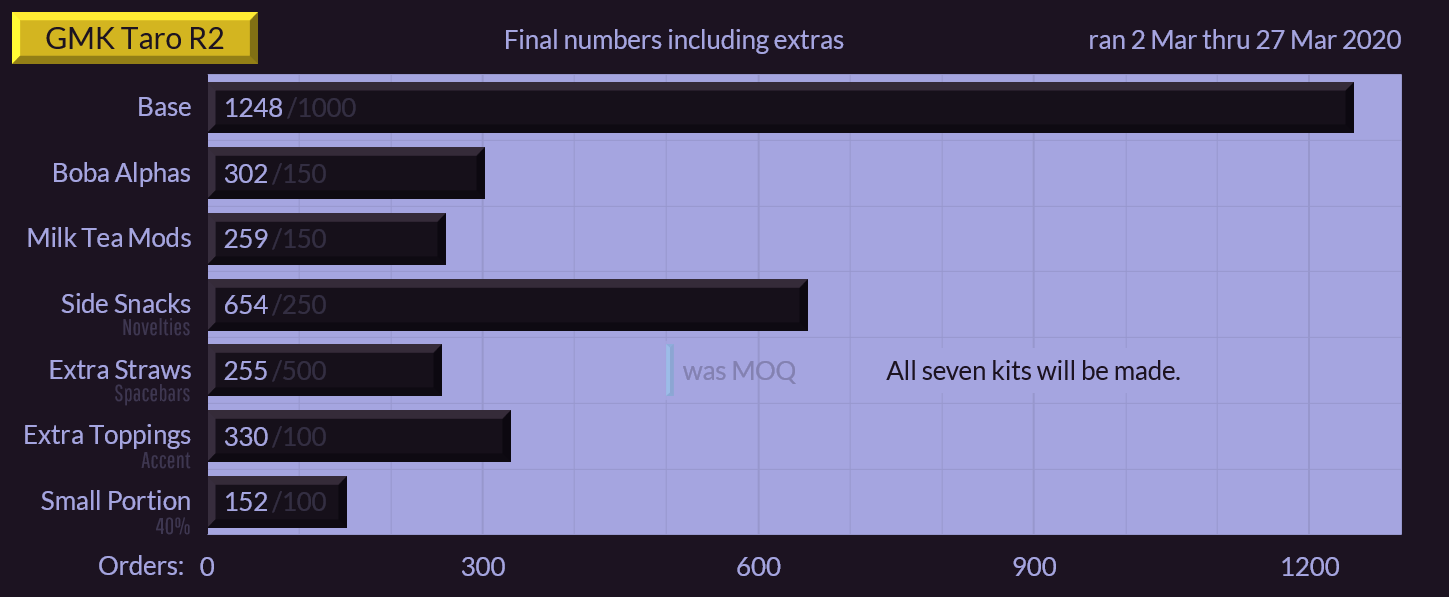
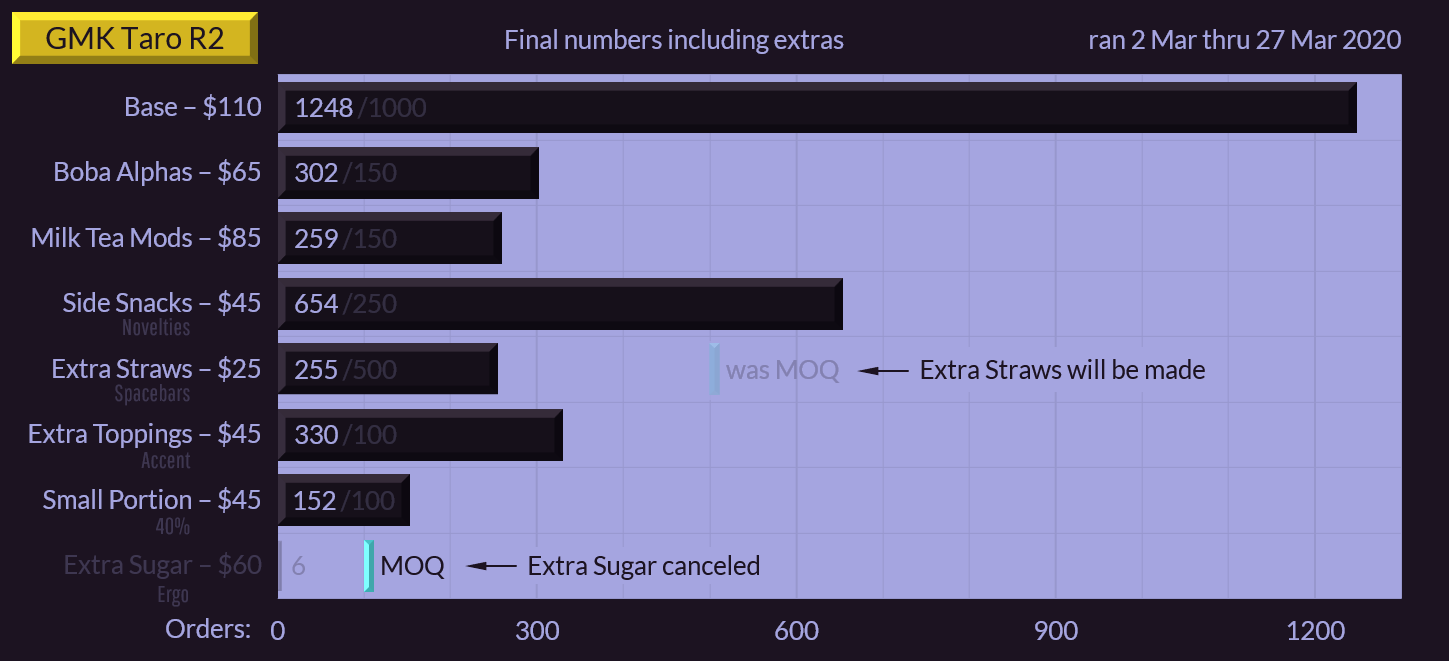
There are 11 files have been modified at 2020-12-06 19:29:05 . 	-rw-rw-r--. 1 jzou jzou 199886 Dec  6 19:24 assets/images/gmk-keycaps/redline/color.png 	-rw-rw-r--. 1 jzou jzou 207436 Dec  6 19:24 assets/images/gmk-keycaps/redline/kits_pics/rama-push-to-start.png 	-rw-rw-r--. 1 jzou jzou 306669 Dec 

diff --git a/docs/gmk-keycaps/Red-Line.md b/docs/gmk-keycaps/Red-Line.md
@@ -21,62 +21,64 @@ NOTE: USD to CNY exchange rate is 6.70
 
 | Name          | Price(GH)    |  Price(CNY) | Quantity |
 | ------------- | ------------ |  ---------- | -------- |
-|[Standard](#standard)|104.99|703.43|Unknown|
-|[Dashboard](#dashboard)|39.99|267.93|Unknown|
-|[Warning](#warning)|29.99|200.93|Unknown|
-|[Addition](#addition)|39.99|267.93|Unknown|
-|[Alternate](#alternate)|24.99|167.43|Unknown|
-|[Aesthetic](#aesthetic)|24.99|167.43|Unknown|
-|[Modern](#modern)|39.99|267.93|Unknown|
-|[Obscure](#obscure)|44.99|301.43|Unknown|
-|[RAMA Push-to-Start](#rama-push-to-start)|40.00|268.00|Unknown|
-|[RAMA Thread](#rama-thread)|40.00|268.00|Unknown|
-|[RAMA Warning](#rama-warning)|38.00|254.60|Unknown|
+|[Standard](#standard)|104.99|703.43|3445|
+|[Dashboard](#dashboard)|39.99|267.93|1805|
+|[Warning](#warning)|29.99|200.93|265|
+|[Addition](#addition)|39.99|267.93|316|
+|[Alternate](#alternate)|24.99|167.43|1129|
+|[Aesthetic](#aesthetic)|24.99|167.43|854|
+|[Modern](#modern)|39.99|267.93|207|
+|[Obscure](#obscure)|44.99|301.43|186|
+|[RAMA Push-to-Start](#rama-push-to-start)|40.00|268.00|938|
+|[RAMA Thread](#rama-thread)|40.00|268.00|263|
+|[RAMA Warning](#rama-warning)|38.00|254.60|555|
 
+
+<img src="{{ 'assets/images/gmk-keycaps/redline/order.png' | relative_url }}" alt="order" class="image featured">
 
 ## Kits  
 ### Standard  
-**Price(GH):** 104.99    **Price(CNY):** 703.43    **Quantity:** Unknown  
+**Price(GH):** 104.99    **Price(CNY):** 703.43    **Quantity:** 3445  
 <img src="{{ 'assets/images/gmk-keycaps/redline/kits_pics/standard.png' | relative_url }}" alt="standard" class="image featured">
 
 ### Dashboard  
-**Price(GH):** 39.99    **Price(CNY):** 267.93    **Quantity:** Unknown  
+**Price(GH):** 39.99    **Price(CNY):** 267.93    **Quantity:** 1805  
 <img src="{{ 'assets/images/gmk-keycaps/redline/kits_pics/dashboard.png' | relative_url }}" alt="dashboard" class="image featured">
 
 ### Warning  
-**Price(GH):** 29.99    **Price(CNY):** 200.93    **Quantity:** Unknown  
+**Price(GH):** 29.99    **Price(CNY):** 200.93    **Quantity:** 265  
 <img src="{{ 'assets/images/gmk-keycaps/redline/kits_pics/warning.png' | relative_url }}" alt="warning" class="image featured">
 
 ### Addition  
-**Price(GH):** 39.99    **Price(CNY):** 267.93    **Quantity:** Unknown  
+**Price(GH):** 39.99    **Price(CNY):** 267.93    **Quantity:** 316  
 <img src="{{ 'assets/images/gmk-keycaps/redline/kits_pics/addition.png' | relative_url }}" alt="addition" class="image featured">
 
 ### Alternate  
-**Price(GH):** 24.99    **Price(CNY):** 167.43    **Quantity:** Unknown  
+**Price(GH):** 24.99    **Price(CNY):** 167.43    **Quantity:** 1129  
 <img src="{{ 'assets/images/gmk-keycaps/redline/kits_pics/alternate.png' | relative_url }}" alt="alternate" class="image featured">
 
 ### Aesthetic  
-**Price(GH):** 24.99    **Price(CNY):** 167.43    **Quantity:** Unknown  
+**Price(GH):** 24.99    **Price(CNY):** 167.43    **Quantity:** 854  
 <img src="{{ 'assets/images/gmk-keycaps/redline/kits_pics/aesthetic.png' | relative_url }}" alt="aesthetic" class="image featured">
 
 ### Modern  
-**Price(GH):** 39.99    **Price(CNY):** 267.93    **Quantity:** Unknown  
+**Price(GH):** 39.99    **Price(CNY):** 267.93    **Quantity:** 207  
 <img src="{{ 'assets/images/gmk-keycaps/redline/kits_pics/modern.png' | relative_url }}" alt="modern" class="image featured">
 
 ### Obscure  
-**Price(GH):** 44.99    **Price(CNY):** 301.43    **Quantity:** Unknown  
+**Price(GH):** 44.99    **Price(CNY):** 301.43    **Quantity:** 186  
 <img src="{{ 'assets/images/gmk-keycaps/redline/kits_pics/obscure.png' | relative_url }}" alt="obscure" class="image featured">
 
 ### RAMA Push-to-Start  
-**Price(GH):** 40.00    **Price(CNY):** 268.00    **Quantity:** Unknown  
+**Price(GH):** 40.00    **Price(CNY):** 268.00    **Quantity:** 938  
 <img src="{{ 'assets/images/gmk-keycaps/redline/kits_pics/rama-push-to-start.png' | relative_url }}" alt="rama-push-to-start" class="image featured">
 
 ### RAMA Thread  
-**Price(GH):** 40.00    **Price(CNY):** 268.00    **Quantity:** Unknown  
+**Price(GH):** 40.00    **Price(CNY):** 268.00    **Quantity:** 263  
 <img src="{{ 'assets/images/gmk-keycaps/redline/kits_pics/rama-thread.png' | relative_url }}" alt="rama-thread" class="image featured">
 
 ### RAMA Warning  
-**Price(GH):** 38.00    **Price(CNY):** 254.60    **Quantity:** Unknown  
+**Price(GH):** 38.00    **Price(CNY):** 254.60    **Quantity:** 555  
 <img src="{{ 'assets/images/gmk-keycaps/redline/kits_pics/rama-warning.png' | relative_url }}" alt="rama-warning" class="image featured">
 
 

diff --git a/docs/gmk-keycaps/Taegeukgi.md b/docs/gmk-keycaps/Taegeukgi.md
@@ -21,32 +21,34 @@ NOTE: USD to CNY exchange rate is 6.71
 
 | Name          | Price(GH)    |  Price(CNY) | Quantity |
 | ------------- | ------------ |  ---------- | -------- |
-|[Base](#base)|142.99|959.46|Unknown|
-|[Hangul Mono](#hangul-mono)|70.00|469.70|Unknown|
-|[Novelties](#novelties)|45.00|301.95|Unknown|
-|[40s Spacebars](#40s-spacebars)|45.00|301.95|Unknown|
-|[Black Day](#black-day)|15.00|100.65|Unknown|
+|[Base](#base)|142.99|959.46|503|
+|[Hangul Mono](#hangul-mono)|70.00|469.70|123|
+|[Novelties](#novelties)|45.00|301.95|252|
+|[40s Spacebars](#40s-spacebars)|45.00|301.95|106|
+|[Black Day](#black-day)|15.00|100.65|200|
 
+<img src="{{ 'assets/images/gmk-keycaps/taegeukgi/history.png' | relative_url }}" alt="history" class="image featured">
+<img src="{{ 'assets/images/gmk-keycaps/taegeukgi/order.png' | relative_url }}" alt="order" class="image featured">
 
 ## Kits  
 ### Base  
-**Price(GH):** 142.99    **Price(CNY):** 959.46    **Quantity:** Unknown  
+**Price(GH):** 142.99    **Price(CNY):** 959.46    **Quantity:** 503  
 <img src="{{ 'assets/images/gmk-keycaps/taegeukgi/kits_pics/base.jpg' | relative_url }}" alt="base" class="image featured">
 
 ### Hangul Mono  
-**Price(GH):** 70.00    **Price(CNY):** 469.70    **Quantity:** Unknown  
+**Price(GH):** 70.00    **Price(CNY):** 469.70    **Quantity:** 123  
 <img src="{{ 'assets/images/gmk-keycaps/taegeukgi/kits_pics/hangul-mono.png' | relative_url }}" alt="hangul-mono" class="image featured">
 
 ### Novelties  
-**Price(GH):** 45.00    **Price(CNY):** 301.95    **Quantity:** Unknown  
+**Price(GH):** 45.00    **Price(CNY):** 301.95    **Quantity:** 252  
 <img src="{{ 'assets/images/gmk-keycaps/taegeukgi/kits_pics/novelties.png' | relative_url }}" alt="novelties" class="image featured">
 
 ### 40s Spacebars  
-**Price(GH):** 45.00    **Price(CNY):** 301.95    **Quantity:** Unknown  
+**Price(GH):** 45.00    **Price(CNY):** 301.95    **Quantity:** 106  
 <img src="{{ 'assets/images/gmk-keycaps/taegeukgi/kits_pics/40s-spacebars.png' | relative_url }}" alt="40s-spacebars" class="image featured">
 
 ### Black Day  
-**Price(GH):** 15.00    **Price(CNY):** 100.65    **Quantity:** Unknown  
+**Price(GH):** 15.00    **Price(CNY):** 100.65    **Quantity:** 200  
 <img src="{{ 'assets/images/gmk-keycaps/taegeukgi/kits_pics/black-day.png' | relative_url }}" alt="black-day" class="image featured">
 
 

diff --git a/docs/gmk-keycaps/Rainy-Day.md b/docs/gmk-keycaps/Rainy-Day.md
@@ -21,27 +21,29 @@ NOTE: USD to CNY exchange rate is 6.79
 
 | Name          | Price(GH)    |  Price(CNY) | Quantity |
 | ------------- | ------------ |  ---------- | -------- |
-|[Base](#base)|134.99|916.58|Unknown|
-|[Sidewalks](#sidewalks)|29.99|203.63|Unknown|
-|[Hangul](#hangul)|39.99|271.53|Unknown|
-|[Petrichor](#petrichor)|29.99|203.63|Unknown|
+|[Base](#base)|134.99|916.58|3124|
+|[Sidewalks](#sidewalks)|29.99|203.63|1286|
+|[Hangul](#hangul)|39.99|271.53|562|
+|[Petrichor](#petrichor)|29.99|203.63|1223|
 
+
+<img src="{{ 'assets/images/gmk-keycaps/rainyday/order.png' | relative_url }}" alt="order" class="image featured">
 
 ## Kits  
 ### Base  
-**Price(GH):** 134.99    **Price(CNY):** 916.58    **Quantity:** Unknown  
+**Price(GH):** 134.99    **Price(CNY):** 916.58    **Quantity:** 3124  
 <img src="{{ 'assets/images/gmk-keycaps/rainyday/kits_pics/base.png' | relative_url }}" alt="base" class="image featured">
 
 ### Sidewalks  
-**Price(GH):** 29.99    **Price(CNY):** 203.63    **Quantity:** Unknown  
+**Price(GH):** 29.99    **Price(CNY):** 203.63    **Quantity:** 1286  
 <img src="{{ 'assets/images/gmk-keycaps/rainyday/kits_pics/sidewalks.png' | relative_url }}" alt="sidewalks" class="image featured">
 
 ### Hangul  
-**Price(GH):** 39.99    **Price(CNY):** 271.53    **Quantity:** Unknown  
+**Price(GH):** 39.99    **Price(CNY):** 271.53    **Quantity:** 562  
 <img src="{{ 'assets/images/gmk-keycaps/rainyday/kits_pics/hangul.png' | relative_url }}" alt="hangul" class="image featured">
 
 ### Petrichor  
-**Price(GH):** 29.99    **Price(CNY):** 203.63    **Quantity:** Unknown  
+**Price(GH):** 29.99    **Price(CNY):** 203.63    **Quantity:** 1223  
 <img src="{{ 'assets/images/gmk-keycaps/rainyday/kits_pics/petrichor.png' | relative_url }}" alt="petrichor" class="image featured">
 
 

diff --git a/docs/gmk-keycaps/Taro-R1.md b/docs/gmk-keycaps/Taro-R1.md
@@ -21,22 +21,23 @@ NOTE: USD to RMB exchange rate is 6.29
 
 | Name          | Price(GH)    |  Price(RMB) | Quantity |
 | ------------- | ------------ |  ---------- | -------- |
-|[Base](#base)|155.00|974.95|unknown|
-|[Spacebar](#spacebar)|28.00|176.12|unknown|
-|[Novelties](#novelties)|20.00|125.80|unknown|
+|[Base](#base)|155.00|974.95|321|
+|[Spacebar](#spacebar)|28.00|176.12|190|
+|[Novelties](#novelties)|20.00|125.80|256|
 
+<img src="{{ 'assets/images/gmk-keycaps/taro/order.png' | relative_url }}" alt="order" class="image featured">
 
 ## Kits
 ### Base
-**Price(GH):** 155.00    **Price(RMB):** 974.95    **Quantity:** unknown  
+**Price(GH):** 155.00    **Price(RMB):** 974.95    **Quantity:** 321  
 <img src="{{ 'assets/images/gmk-keycaps/taro/kits_pics/base.png' | relative_url }}" alt="Base" class="image featured">
 
 ### Spacebar
-**Price(GH):** 28.00    **Price(RMB):** 176.12    **Quantity:** unknown  
+**Price(GH):** 28.00    **Price(RMB):** 176.12    **Quantity:** 190  
 <img src="{{ 'assets/images/gmk-keycaps/taro/kits_pics/spacebar.png' | relative_url }}" alt="Spacebar" class="image featured">
 
 ### Novelties
-**Price(GH):** 20.00    **Price(RMB):** 125.80    **Quantity:** unknown  
+**Price(GH):** 20.00    **Price(RMB):** 125.80    **Quantity:** 256  
 <img src="{{ 'assets/images/gmk-keycaps/taro/kits_pics/novelties.png' | relative_url }}" alt="Novelties" class="image featured">
 
 

diff --git a/docs/gmk-keycaps/Taro-R2.md b/docs/gmk-keycaps/Taro-R2.md
@@ -70,7 +70,7 @@ NOTE: USD to CNY exchange rate is 7.00
 ## Info  
 * Designer: pwade3  
 * Profile: GMK 1-1-2-3-4-4  
-* GB Time: 2020-03-02 ~ 2020-03-27  
+* GB Time: 2020-03-02  
 * Color Codes:  
 
 | |Base Color     | Legend Color
